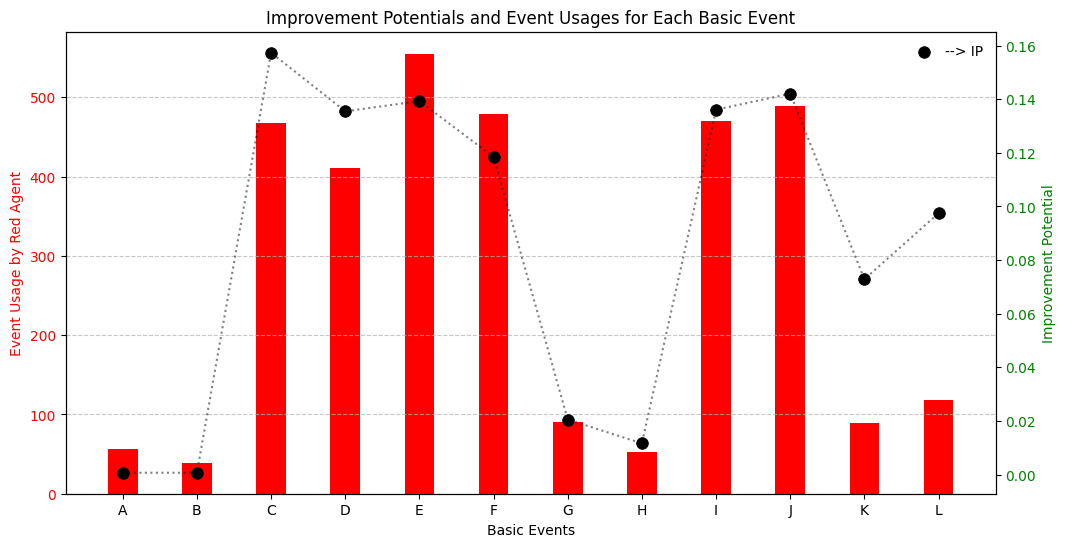
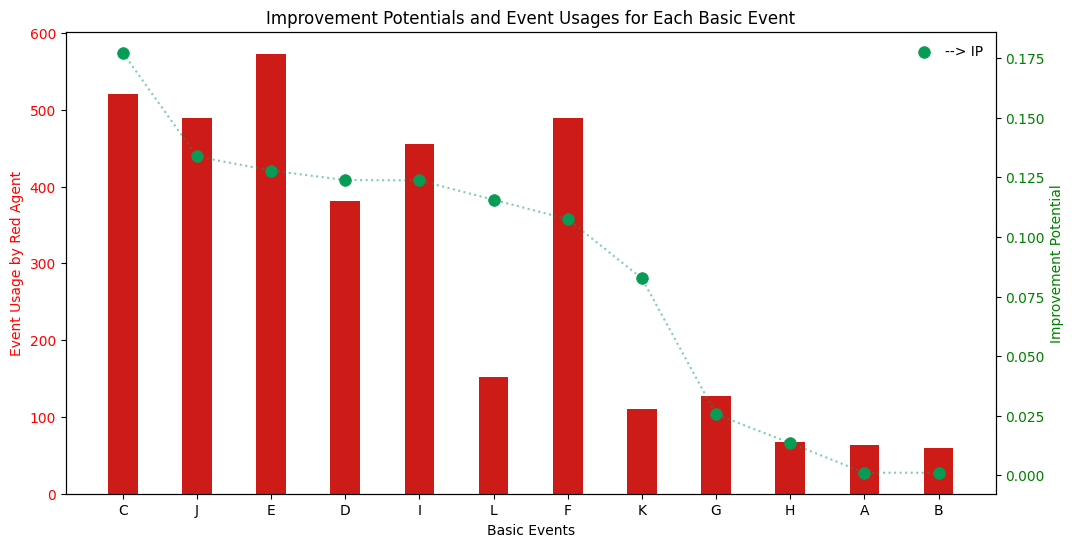
Updated Relibility and Improvement Potential

diff --git a/src/element.py b/src/element.py
@@ -18,12 +18,12 @@ class Event:
         for event in self.input:
             event.update_event()
         if self.event_type != 'BASIC':
-                if self.gate_type == 'AND': # If all inputs are 0, then state = 0, otherwise, state = 1
+                if self.gate_type == 'AND':  # If all inputs are 0, then state = 0, otherwise, state = 1
                     if sum([int(obj.state) for obj in self.input]) == 0:
                         self.state = 0
                     else:
                         self.state = 1 
-                elif self.gate_type == 'OR': # If any input is != 0, then state = 0, otherwise, state = 1
+                elif self.gate_type == 'OR':  # If any input is != 0, then state = 0, otherwise, state = 1
                     for obj in self.input:
                         if int(obj.state) != 1:
                             self.state = 0
@@ -32,10 +32,10 @@ class Event:
                             self.state = 1           
                 elif self.gate_type == 'FDEP':  # FDEP gates only accepts one input precedence, must combine with and or events prior to input signal.
                     self.state = self.input[0].state
-                    #print(self.name,self.input[0].name)
+                    # print(self.name,self.input[0].name)
                 elif self.gate_type == 'CSP':  # Cold Spare currently, only accepts 1 competitor, and 1 spare. Also the 'main' input must come first in the input list.
-                    self.main_functioning = self.input[0].state # Is main functioning?
-                    self.spare_functioning = self.spare.state # Is Spare functioning?     
+                    self.main_functioning = self.input[0].state  # Is main functioning?
+                    self.spare_functioning = self.spare.state  # Is Spare functioning?
                     if self.main_functioning == 1:
                         self.state = 1
                         self.using_spare = 0
@@ -60,19 +60,19 @@ class Event:
                     new_state = 0
                 else:
                     new_state = 1 
-            elif parent.gate_type == 'OR': # If any input is != 0, then state = 0, otherwise, state = 1
+            elif parent.gate_type == 'OR':  # If any input is != 0, then state = 0, otherwise, state = 1
                 for obj in parent.input:
                     if int(obj.state) != 1:
                         new_state = 0
                         break  
                     else:
                         new_state = 1           
-            elif parent.gate_type == 'FDEP': # FDEP gates only accepts one input precedence, must combine with and or events prior to input signal.
+            elif parent.gate_type == 'FDEP':  # FDEP gates only accepts one input precedence, must combine with and or events prior to input signal.
                 new_state = parent.input[0].state
-                #print(parent.name,parent.input[0].name)
-            elif parent.gate_type == 'CSP': # Cold Spare currently, only accepts 1 competitor, and 1 spare. Also the 'main' input must come first in the input list.
-                parent.main_functioning = parent.input[0].state # Is main functioning?
-                parent.spare_functioning = parent.spare.state # Is Spare functioning?     
+                # print(parent.name,parent.input[0].name)
+            elif parent.gate_type == 'CSP':  # Cold Spare currently, only accepts 1 competitor, and 1 spare. Also the 'main' input must come first in the input list.
+                parent.main_functioning = parent.input[0].state  # Is main functioning?
+                parent.spare_functioning = parent.spare.state  # Is Spare functioning?
                 if parent.main_functioning == 1:
                     new_state = 1
                     parent.using_spare = 0
@@ -94,22 +94,22 @@ class Event:
             self.state = new_state
             Event.count += 1
         for parent in self.output:
-            if parent.gate_type == 'AND': # If all inputs are 0, then state = 0, otherwise, state = 1
+            if parent.gate_type == 'AND':  # If all inputs are 0, then state = 0, otherwise, state = 1
                 if sum([int(obj.state) for obj in parent.input]) == 0:
                     new_state = 0
                 else:
                     new_state = 1 
-            elif parent.gate_type == 'OR': # If any input is != 0, then state = 0, otherwise, state = 1
+            elif parent.gate_type == 'OR':  # If any input is != 0, then state = 0, otherwise, state = 1
                 for obj in parent.input:
                     if int(obj.state) != 1:
                         new_state = 0
                         break  
                     else:
                         new_state = 1           
-            elif parent.gate_type == 'FDEP': # FDEP gates only accepts one input precedence, must combine with and or events prior to input signal.
+            elif parent.gate_type == 'FDEP':  # FDEP gates only accepts one input precedence, must combine with and or events prior to input signal.
                 new_state = parent.input[0].state
-                #print(parent.name,parent.input[0].name)
-            elif parent.gate_type == 'CSP': # Cold Spare currently, only accepts 1 competitor, and 1 spare. Also the 'main' input must come first in the input list.
+                # print(parent.name,parent.input[0].name)
+            elif parent.gate_type == 'CSP':  # Cold Spare currently, only accepts 1 competitor, and 1 spare. Also the 'main' input must come first in the input list.
                 parent.main_functioning = parent.input[0].state # Is main functioning?
                 parent.spare_functioning = parent.spare.state # Is Spare functioning?     
                 if parent.main_functioning == 1:
@@ -138,7 +138,7 @@ class BasicEvent(Event):
         return self.repairing
     
     def red_action(self):
-        'activate basic event'
+        """activate basic event"""
         Event.count = 0
         Event.red_visited = []
         self.event_partial_update(0)
@@ -146,7 +146,7 @@ class BasicEvent(Event):
         return Event.count
 
     def blue_action(self):
-        'inactivate basic event'
+        """inactivate basic event"""
         if self.state == 1:
             return 0,[]
         self.repairing = 1
@@ -171,7 +171,7 @@ class Precedence:
 
 
 class No_Action(Event):
-    'No Action class' 
+    """No Action class"""
     count = 0
     visited = []
     def __init__(self, name):
@@ -182,5 +182,5 @@ class No_Action(Event):
         return No_Action.count
 
     def blue_action(self):
-        'skip turn'
+        """skip turn"""
         return No_Action.count, No_Action.visited

diff --git a/improvement_potential.py b/improvement_potential.py
@@ -268,28 +268,26 @@ if __name__ == "__main__":
     events = list(improvement_potential_analysis.improvement_potentials.keys())
     improvement_potentials = list(improvement_potential_analysis.improvement_potentials.values())
     event_usages = [reliability_analysis.red_agent_event_count.get(event, 0) for event in events]
+    data = pd.DataFrame({"Event": events, "Improvement Potential": improvement_potentials, "Event Usage": event_usages})
+    data = data.sort_values(by="Improvement Potential", ascending=False)
 
-    # Create a DataFrame and sort events alphabetically by event name
-    data = pd.DataFrame({"Event": events, "Improvement Potential (IP)": improvement_potentials, "Event Usage": event_usages})
-    data = data.sort_values(by="Event")
     fig, ax2 = plt.subplots(figsize=(12, 6))
 
-    # Event Usage as semi-transparent light red bars on the left y-axis
-    ax2.bar(data["Event"], data["Event Usage"], color="red", alpha=1.0, width=0.4, zorder=1)
+    ax2.bar(data["Event"], data["Event Usage"], color="#CD1C18", alpha=1.0, width=0.4, zorder=1)  # Event Usage on the left y-axis
     ax2.set_ylabel("Event Usage by Red Agent", color="red", alpha=1.0)
     ax2.tick_params(axis="y", labelcolor="red")
 
-    # Improvement Potential as green dots on the right y-axis
-    ax1 = ax2.twinx()
-    ax1.scatter(data["Event"], data["Improvement Potential (IP)"], color="black", s=70, edgecolor="black", linewidth=0.6,
-                zorder=2)
+    ax1 = ax2.twinx()  # Improvement Potential on the right y-axis
+    ax1.scatter(data["Event"], data["Improvement Potential"], color="#069C56", s=70, edgecolor="#069C56", linewidth=0.6, zorder=2)
     ax1.set_ylabel("Improvement Potential", color="green")
     ax1.tick_params(axis="y", labelcolor="green")
-    ax1.plot(data["Event"], data["Improvement Potential (IP)"], linestyle=':', color='black', alpha=0.5, zorder=1)
+    ax1.plot(data["Event"], data["Improvement Potential"], linestyle=':', color='#069C56', alpha=0.5, zorder=1)
+
     ax2.set_xlabel("Basic Events")
     ax1.legend(['--> IP'], loc='upper right', fontsize='medium', handlelength=2, handletextpad=0.5, frameon=False)
-    save_dir = '2_100K_DFT_MARL-ddqn_analysisGraphs'
+    ax2.grid(False)
+
     plt.title("Improvement Potentials and Event Usages for Each Basic Event")
-    ax2.grid(axis="y", linestyle="--", alpha=0.7)
+    save_dir = '2_100K_DFT_MARL-ddqn_analysisGraphs'
     plt.savefig(f"{save_dir}/improvement_potentials_event_usages.png", bbox_inches='tight')
-    plt.show()
+    # plt.show()

diff --git a/src/Custom_Environment/custom_envinronment/env/custom_env.py b/src/Custom_Environment/custom_envinronment/env/custom_env.py
@@ -98,8 +98,6 @@ class CustomEnvironment(AECEnv):
         ):
             # self._was_dead_step(action)
             return self.observation, self.rewards[agent], self.terminations, self.truncations, self.infos
-        
-        
 
         action, cost = self.game.get_action(act)
         # print(agent.name,action, cost)
